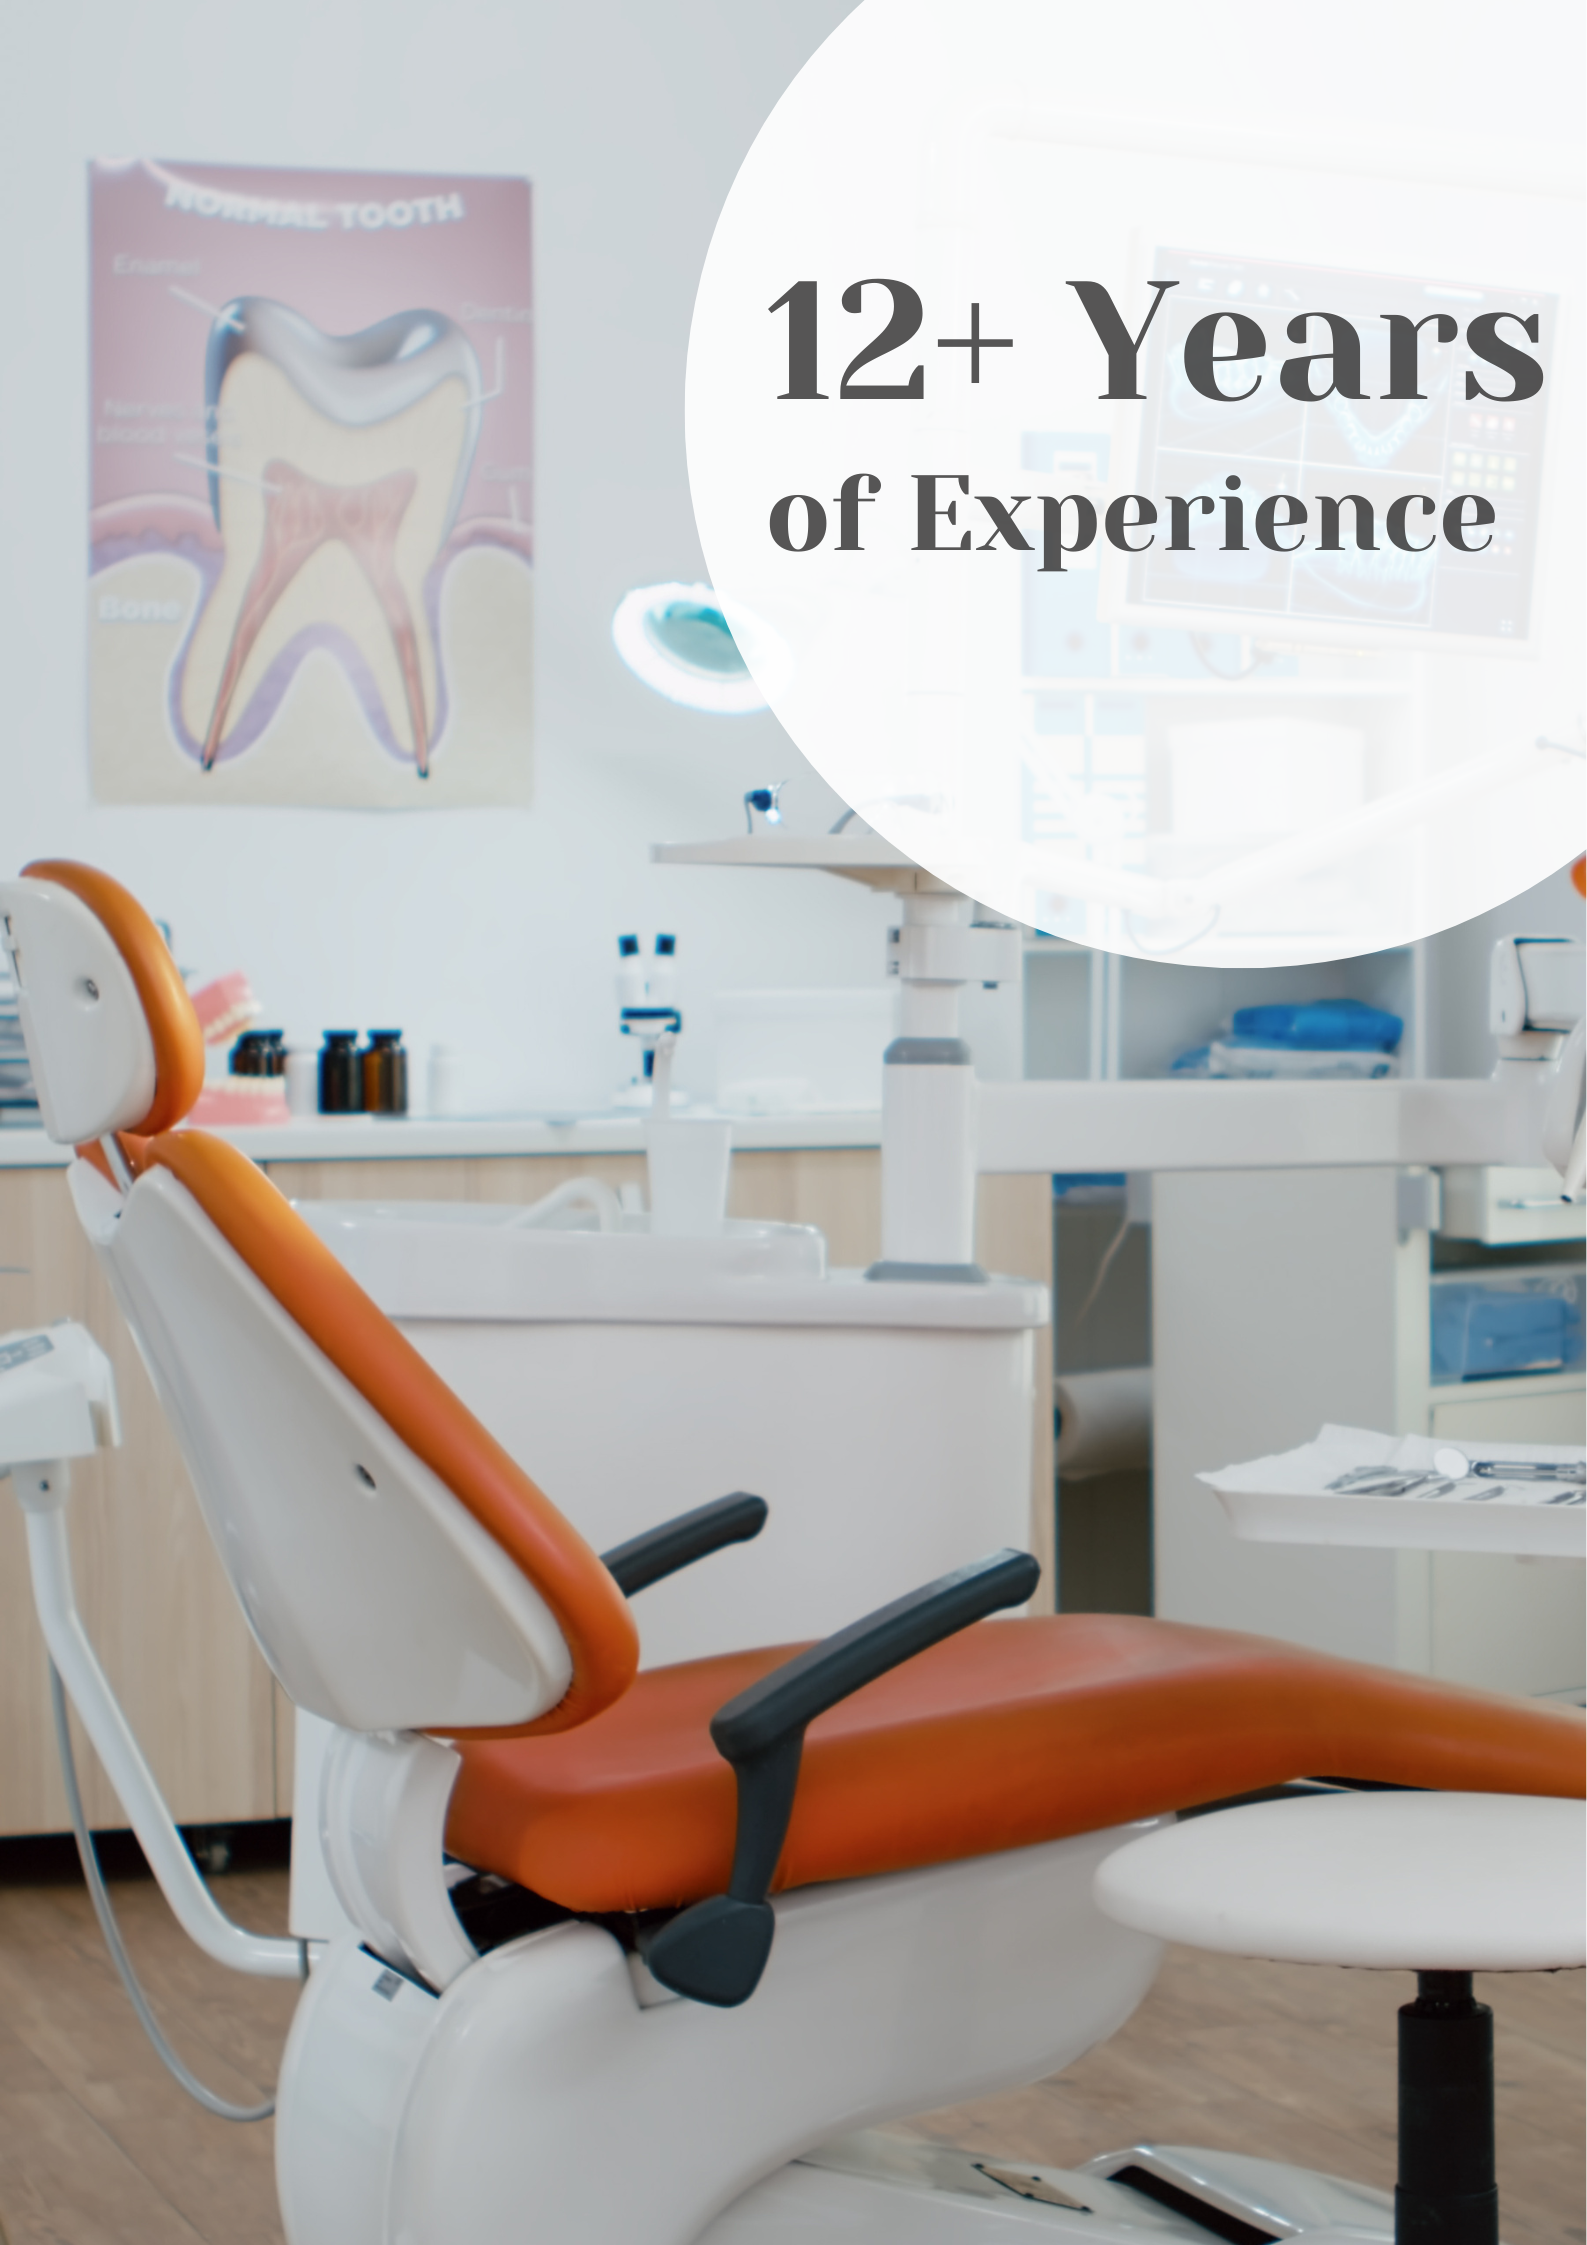
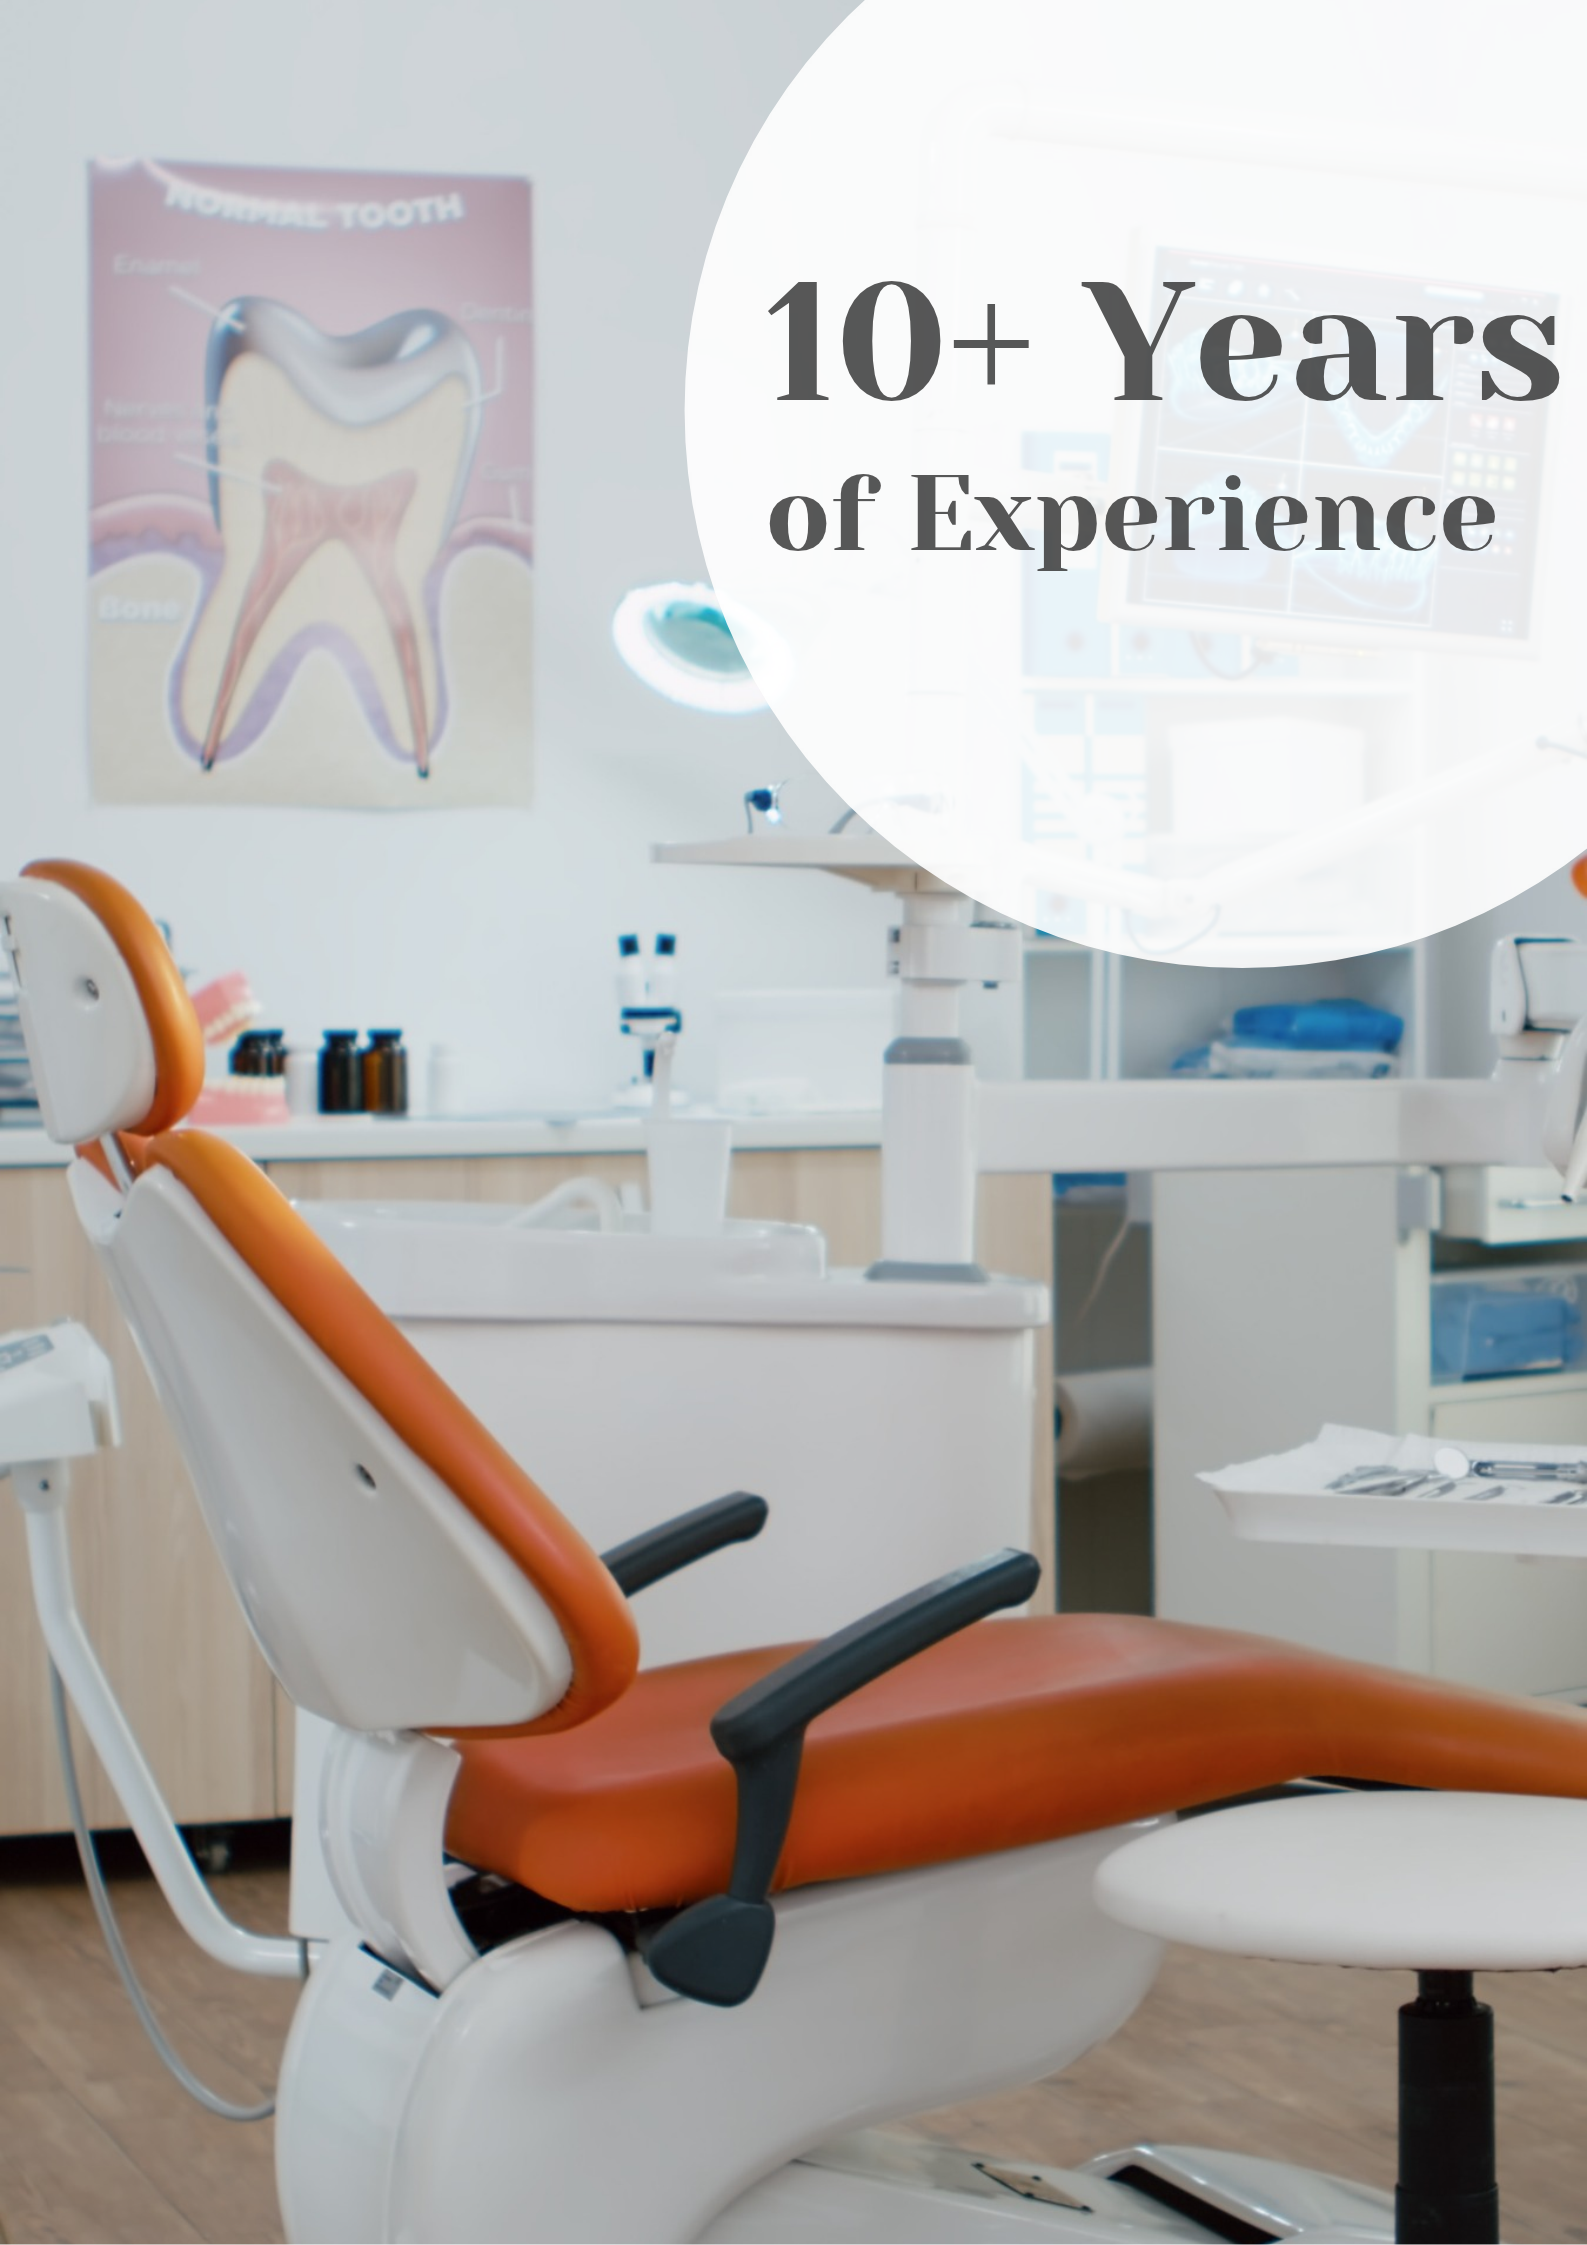
client update 3

Changed region(s): [[0.0, 0.9978, 1.0, 1.0], [0.6793, 0.1247, 0.988, 0.1871], [0.5249, 0.1247, 0.6484, 0.1871]]

diff --git a/src/app/page.tsx b/src/app/page.tsx
@@ -429,10 +429,10 @@ export default function Home() {
                 <p className="text-3xl sm:text-4xl font-semibold">10+</p>
                 <p className="text-lg">Years Caring for You</p>
               </div>
-              <div className="w-full lg:w-1/2 flex flex-col text-center lg:text-left">
+              {/* <div className="w-full lg:w-1/2 flex flex-col text-center lg:text-left">
                 <p className="text-3xl sm:text-4xl font-semibold">5000+</p>
                 <p className="text-lg">Smiles Restored</p>
-              </div>
+              </div> */}
             </div>
 
             {/* CTA Button */}
@@ -453,16 +453,16 @@ export default function Home() {
       <div className="w-full flex flex-col p-5 md:p-10">
         <div className="w-full flex flex-col gap-y-10">
           <div className="w-full flex flex-col md:flex-row">
-            <div className="w-3/4 flex flex-col gap-y-10">
+            <div className="w-4/5 flex flex-col gap-y-10">
               <div className="flex gap-x-3 items-center">
                 <HeadingPointer />
                 <h3 className="font-semibold">OUR SERVICES</h3>
               </div>
-              <p className="text-3xl md:text-5xl font-semibold">
+              <p className="text-3xl md:text-4xl font-semibold">
                 Comprehensive dental care tailored services for every smile
               </p>
             </div>
-            <div className="w-full md:w-1/4 py-5 flex justify-end items-center">
+            <div className="w-full md:w-1/5 py-5 flex justify-end items-end">
               <Link
                 href="/treatments"
                 className="px-6 py-3 bg-blue-600 rounded-full shadow-lg hover:bg-green-600 text-white text-base"
@@ -493,25 +493,17 @@ export default function Home() {
             </p>
             <div className="space-y-4 mr-10 text-gray-600">
               <p>
-                {" "}
-                Welcome to <strong>EndoSmile Dental Care</strong>, the
-                dental clinic in <strong>Greater Noida West</strong>, where
-                expertise meets innovation. Led by{" "}
-                <strong>Dr. Sumit Dinkar</strong>, a renowned{" "}
-                <strong>Micro Endodontist and Aesthetic Dentist</strong>, our
-                clinic is committed to providing personalized care that
-                prioritizes your comfort and oral health.
-              </p>{" "}
+                <strong>EndoSmile Dental Care</strong> is a dental clinic located in Greater Noida West, providing dental consultation, diagnosis, treatment, and preventive oral healthcare services.
+              </p>
               <p>
-                {" "}
-                At EndoSmile Dental Care, we specialize in advanced treatments
-                such as <strong>Root Canal Therapy</strong>,{" "}
-                <strong>Smile Makeovers</strong>, and{" "}
-                <strong>Cosmetic Dentistry</strong>, while also offering routine
-                check-ups and preventive care. Our clinic integrates
-                state-of-the-art technology with a patient-first approach to
-                ensure every visit is both effective and stress-free.
-              </p>{" "}
+                The clinic is associated with <strong>Dr. Sumit Dinkar</strong>, whose professional qualifications and areas of practice include endodontics and aesthetic dentistry, as applicable to his registered credentials.
+              </p>
+              <p>
+                Services offered at the clinic include root canal treatment, aesthetic dental procedures, smile-related treatments, routine dental examinations, and preventive oral care. Treatment recommendations are based on individual dental needs and clinical assessment.
+              </p>
+              <p>
+                The clinic aims to support patients in maintaining oral health through appropriate dental care, patient education, and treatment planning.
+              </p>
             </div>
             <div>
               <Link
